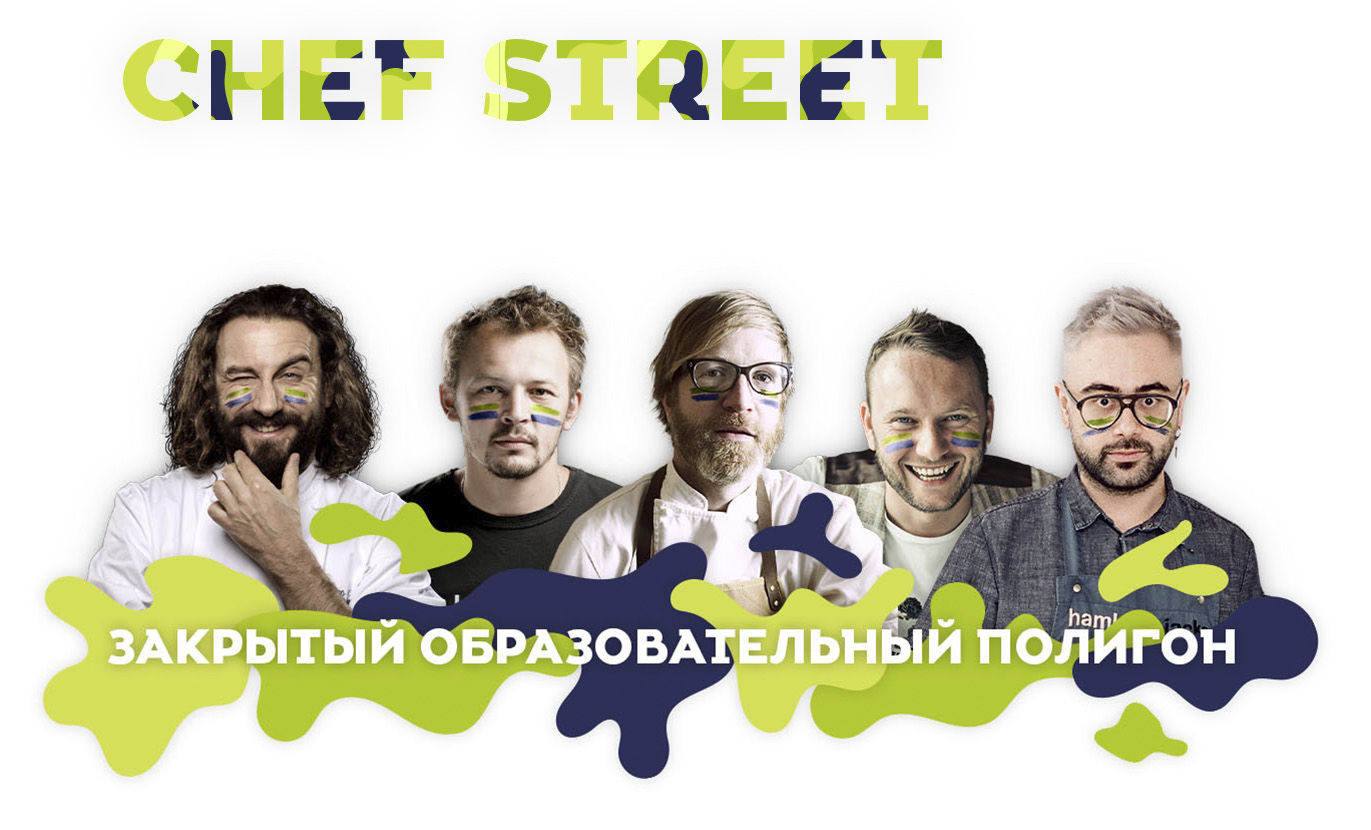
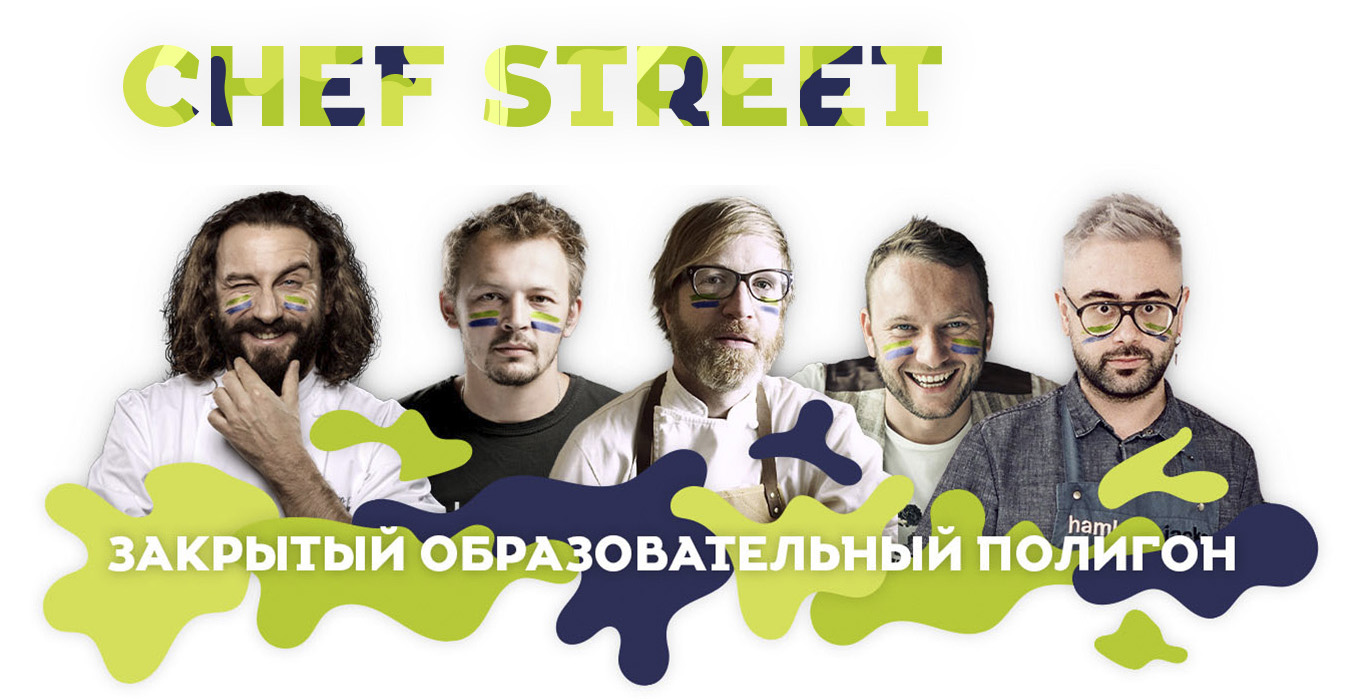
Мелкие правки

Changed region(s): [[0.0306, 0.27, 0.9803, 0.99], [0.0919, 0.03, 0.7046, 0.18], [0.0306, 0.69, 0.0613, 0.72]]

diff --git a/app/Templates/PlaceControl.html b/app/Templates/PlaceControl.html
@@ -20,16 +20,16 @@
                     <div class="level-960 mb-1">Красная Поляна +960</div>
                     <div class="free-numbers mb-3">Осталось <span>893</span> из 1000 номеров</div>
                 </div>
-                <a href="#" class="d-block marker-touch pick" data-target="#hotelsModal_pick" data-toggle="modal"></a>
-                <a href="#" class="d-block marker-touch dolina" data-target="#hotelsModal_dolina" data-toggle="modal"></a>
-                <a href="#" class="d-block marker-touch congress" data-target="#hotelsModal_congress" data-toggle="modal"></a>
-                <a href="#" class="d-block marker-touch panorama" data-target="#hotelsModal_panorama" data-toggle="modal"></a>
-                <a href="#" class="d-block marker-touch ibis" data-target="#hotelsModal_ibis" data-toggle="modal"></a>
-                <a href="#" class="d-block marker-touch sber" data-target="#hotelsModal_sber" data-toggle="modal"></a>
-                <a href="#" class="d-block marker-touch rixos" data-target="#hotelsModal_rixos" data-toggle="modal"></a>
-                <a href="#" class="d-block marker-touch royal" data-target="#hotelsModal_rixos" data-toggle="modal"></a>
-                <a href="#" class="d-block marker-touch novotel" data-target="#hotelsModal_novotel" data-toggle="modal"></a>
                 <div class="col-lg-12">
+                    <a href="#" class="d-block marker-touch pick" data-target="#hotelsModal_pick" data-toggle="modal"></a>
+                    <a href="#" class="d-block marker-touch dolina" data-target="#hotelsModal_dolina" data-toggle="modal"></a>
+                    <a href="#" class="d-block marker-touch congress" data-target="#hotelsModal_congress" data-toggle="modal"></a>
+                    <a href="#" class="d-block marker-touch panorama" data-target="#hotelsModal_panorama" data-toggle="modal"></a>
+                    <a href="#" class="d-block marker-touch ibis" data-target="#hotelsModal_ibis" data-toggle="modal"></a>
+                    <a href="#" class="d-block marker-touch sber" data-target="#hotelsModal_sber" data-toggle="modal"></a>
+                    <a href="#" class="d-block marker-touch rixos" data-target="#hotelsModal_rixos" data-toggle="modal"></a>
+                    <a href="#" class="d-block marker-touch royal" data-target="#hotelsModal_rixos" data-toggle="modal"></a>
+                    <a href="#" class="d-block marker-touch novotel" data-target="#hotelsModal_novotel" data-toggle="modal"></a>
                     <img class="img-fluid map mb-5 mb-lg-0" src="/images/place/map.jpg" alt="">
                 </div>
                 <div class="col-lg-12">
@@ -38,7 +38,7 @@
                             <div class="hotels-title">gastreet city</div>
                             <div class="level-960 mb-4">Красная Поляна +960</div>
                             <div class="free-numbers mb-lg-0 mb-3">
-                                Осталось <span>300</span> из 1000 номеров
+                                Осталось <span>893</span> из 1000 номеров
                             </div>
                         </div>
                         <div class="offset-1 offset-lg-0 col-10 col-lg-2 free pt-2 pb-2">

diff --git a/app/Templates/CatalogControl5.html b/app/Templates/CatalogControl5.html
@@ -21,7 +21,7 @@
         </div>
         <div class="col-6 col-md-2">
             <div class="entry">
-                <p class="num">+</p>
+                <p class="num">6+</p>
                 <p class="text">доступ на все образоваельные площадки</p>
             </div>
         </div>
@@ -33,7 +33,7 @@
         </div>
         <div class="col-6 col-md-2">
             <div class="entry">
-                <p class="num">+</p>
+                <p class="num" style="font-size: 2rem;line-height: 3rem;">Novotel</p>
                 <p class="text">закрытый отель</p>
             </div>
         </div>
@@ -1089,7 +1089,7 @@
 {literal}
 <style>
     .thematik-rebro-page .img-faces-page {
-        height: 52rem;
+        height: 44rem;
         background-image: url('/images/thematik-page/main_rebro.jpg');
         background-size: contain;
         background-repeat: no-repeat;
@@ -1173,12 +1173,12 @@
     .timetable-page .title-programm {
         font-size: 2.250rem;
         font-weight: 600;}
-    .chef.ticket-january, .barstreet.ticket-january {
+    .chef.ticket-january, .barstreet.ticket-january, .profi.ticket-january {
         filter: grayscale(100%);
         position: relative;
         transition: all .3s ease-out;
         opacity: .4;}
-    .chef.ticket-january:after, .barstreet.ticket-january:after {
+    .chef.ticket-january:after, .barstreet.ticket-january:after, .profi.ticket-january:after {
         content: '';
         position: absolute;
         left: 2px;
@@ -1189,18 +1189,18 @@
         opacity: .4;}
     .barstreet.ticket-january:after {
         right: 7px;}
-    .chef.ticket-january:hover:after, .barstreet.ticket-january:hover:after {
+    .chef.ticket-january:hover:after, .barstreet.ticket-january:hover:after, .profi.ticket-january:hover:after {
         display: none;
         opacity: 0;}
-    .chef.ticket-january:hover, .barstreet.ticket-january:hover {
+    .chef.ticket-january:hover, .barstreet.ticket-january:hover, .profi.ticket-january:hover {
         filter: grayscale(0);
         opacity: 1;}
     .rebro.ticket-january {
         order: 1;}
     .profi.ticket-january {
-        order: 2;}
-    .king.ticket-january {
         order: 3;}
+    .king.ticket-january {
+        order: 2;}
     .chef.ticket-january {
         order: 4;}
     .barstreet.ticket-january {
@@ -1218,12 +1218,10 @@
     @media (min-width: 300px) and (max-width: 767px) {
         html {
             font-size: 12px;}
-        .barstreet.ticket-january, .chef.ticket-january {
+        .barstreet.ticket-january, .chef.ticket-january, .profi.ticket-january {
             display: none;}
         .chef.ticket-january {
             order: 1;}
-        .profi.ticket-january {
-            order: 2;}
         .king.ticket-january {
             order: 3;}
         .more-link {

diff --git a/app/Templates/CatalogControl9.html b/app/Templates/CatalogControl9.html
@@ -7,7 +7,7 @@
 </div>
 <div class="container description-header">
     <div class="row text-center">
-        <div class="col-6 col-md-2">
+        <div class="col-6 col-md-2 offset-md-1">
             <div class="entry">
                 <p class="num">20</p>
                 <p class="text">кулинарных мастер-классов</p>
@@ -1095,7 +1095,7 @@
 {literal}
 <style>
 .thematik-chef-page .img-faces-page {
-    height: 52rem;
+    height: 44rem;
     background-image: url('/images/thematik-page/main_chef.jpg');
     background-size: contain;
     background-repeat: no-repeat;
@@ -1271,6 +1271,8 @@
     .thematik-chef-page .timetable .corp {
         text-align: center;
         margin-bottom: 1rem;}
+    .thematik-chef-page .timetable .corp img {
+        margin-top: .5rem;}
     .thematik-chef-page .drop {
         text-align: center;}
     .timetable-page .title-programm {

diff --git a/css/place.css b/css/place.css
@@ -343,7 +343,7 @@ h1.title {
     flex-direction: column;
     justify-content: space-between;}
 .hotels .modal-dialog .modal-img-big, .hotels .modal-dialog .body .modal-img {
-    display: block;}
+    *display: block;}
 .hotels .modal-dialog .modal-hotels-price-title {
     font-size: 2.000rem;
     font-weight: 600;
@@ -435,7 +435,8 @@ h1.title {
     .hotels .carousel {
         margin-top: 1rem;}
     .hotels .modal-dialog .body .modal-img {
-        width: 33%;}
+        width: 33%;
+        height: 82px;}
     .hotels .modal-dialog .body .hotel-price {
         font-size: 0.8rem;}
     .hotels .modal-dialog .body .title, .hotels .modal-dialog .body .longtitle {

diff --git a/css/style-gss.css b/css/style-gss.css
@@ -6026,7 +6026,10 @@ a.credit {
     .page_body .ticket.main-ticket.ticket-rebro .btn {
         font-size: 1rem;}
     .page_body .ticket.main-ticket .ticket_new_cost {
-        font-size: .8rem;}
+        margin-top: 1rem;
+        font-size: .8rem;
+        margin-bottom: 0;
+        display: block;}
     .page_body .ticket.main-ticket .ticket_header {
         font-size: 1.6rem;}
     .page_body .ticket.main-ticket .ticket-hit {}

diff --git a/app/Templates/CatalogControl7.html b/app/Templates/CatalogControl7.html
@@ -1083,7 +1083,7 @@
 {literal}
 <style>
     .thematik-barstreet-page .img-faces-page {
-        height: 52rem;
+        height: 44rem;
         background-image: url('/images/thematik-page/main_barstreet.jpg');
         background-size: contain;
         background-repeat: no-repeat;

diff --git a/app/Templates/CatalogControl3.html b/app/Templates/CatalogControl3.html
@@ -1083,7 +1083,7 @@
 {literal}
 <style>
     .thematik-main-page .img-faces-page {
-        height: 52rem;
+        height: 44rem;
         background-image: url('/images/thematik-page/main_mainstreet.jpg');
         background-size: contain;
         background-repeat: no-repeat;
